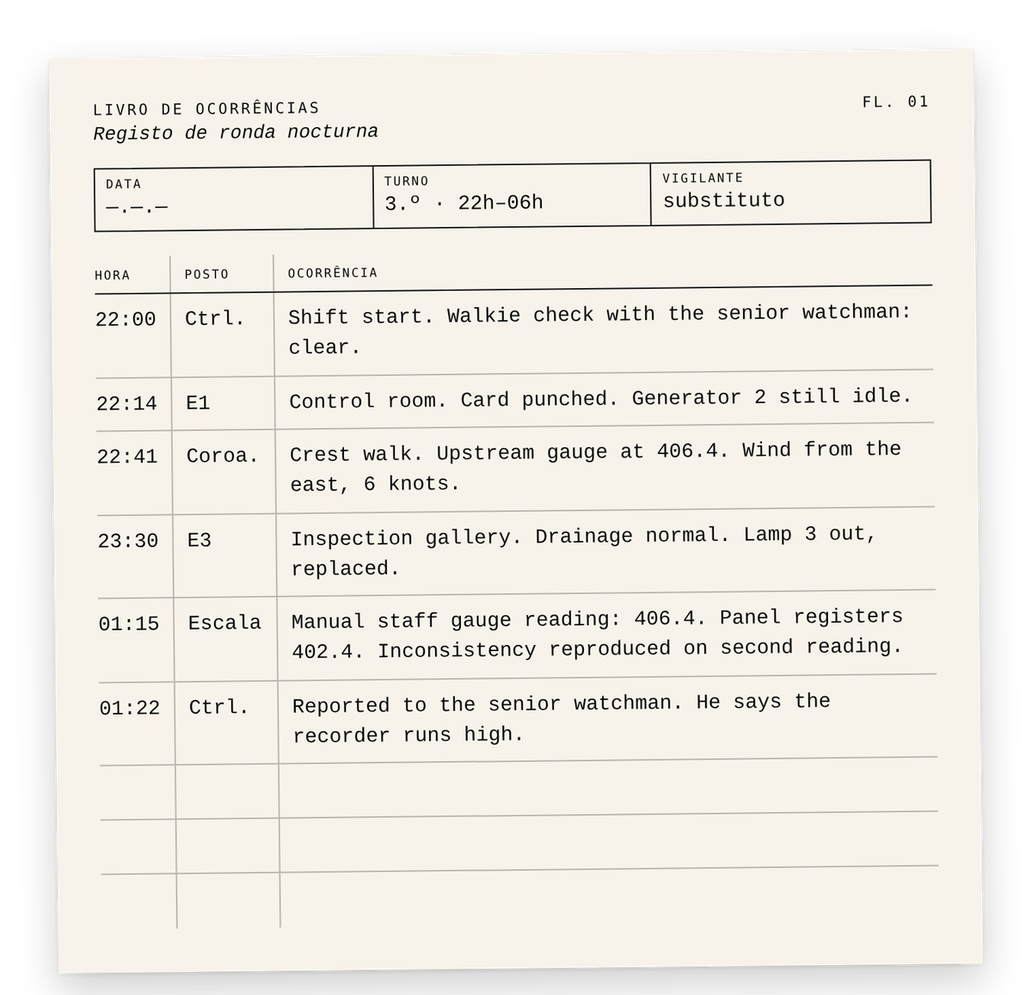
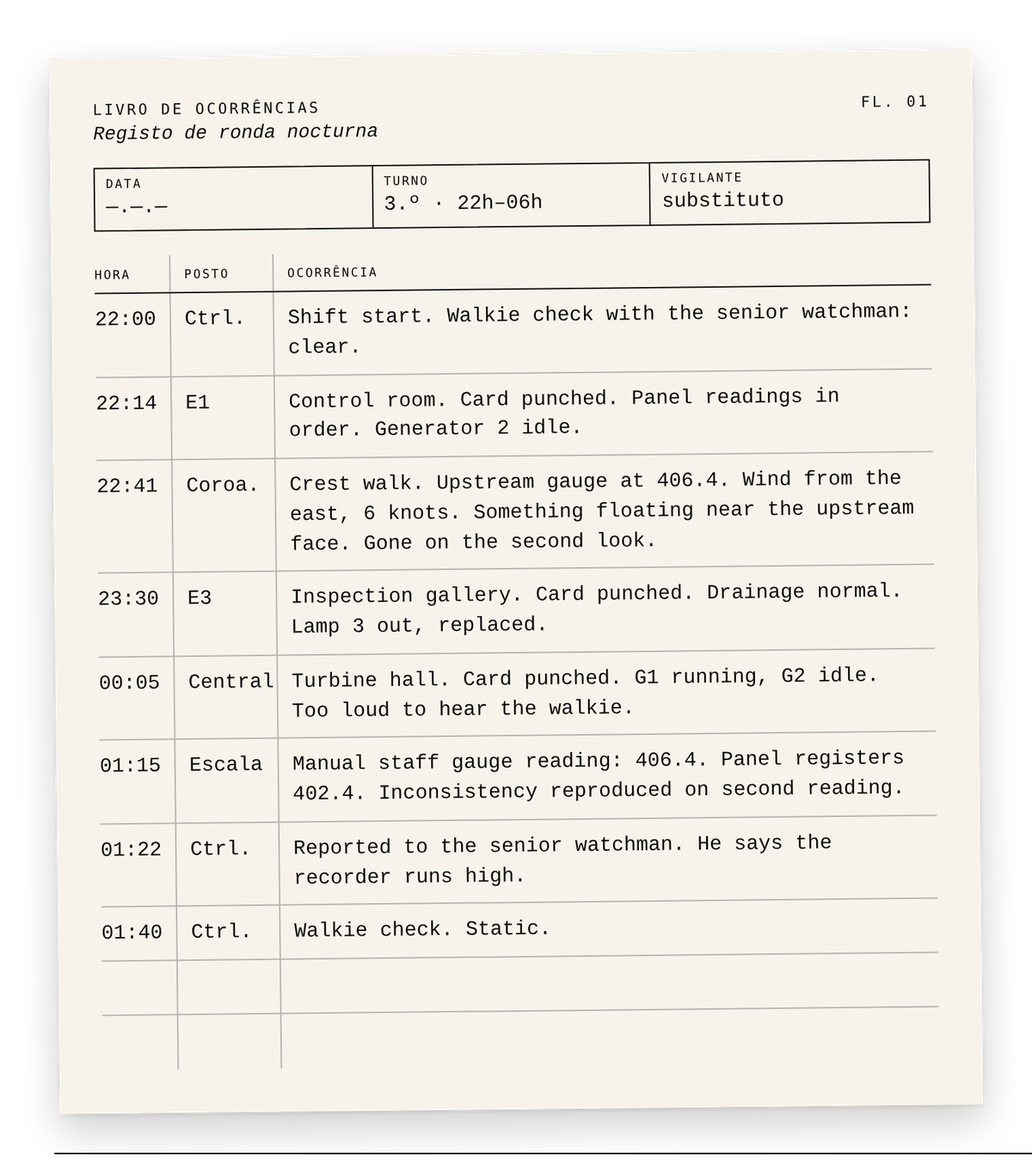
[Feature] Log image updated & log animation improve

diff --git a/index.html b/index.html
@@ -43,8 +43,9 @@ a:focus-visible{outline:2px solid #0A0A0A;outline-offset:3px}
 .lrow{display:grid;grid-template-columns:56px 76px minmax(0,1fr);border-bottom:1px solid rgba(10,10,10,.28)}
 .lrow>span{padding:9px 10px 8px;border-right:1px solid rgba(10,10,10,.28)}
 .lrow>span:last-child{border-right:0}
+.sr{position:absolute;width:1px;height:1px;overflow:hidden;clip:rect(0 0 0 0);white-space:nowrap}
 .lrow>span:first-child{padding-left:0}
-@media (max-width: 560px){.lrow{grid-template-columns:46px 60px minmax(0,1fr)}.lrow>span{padding:8px 6px 7px}.logsheet{font-size:13px!important;padding:16px 14px 18px!important}}
+@media (max-width: 560px){.lrow{grid-template-columns:46px 68px minmax(0,1fr)}.lrow>span{padding:8px 6px 7px}.logsheet{font-size:13px!important;padding:16px 14px 18px!important}}
 .gauge{width:100px;height:400px}
 @media (max-width: 720px){
 .gwrap{padding-right:0!important}
@@ -102,7 +103,10 @@ html{scroll-behavior:smooth}
 
 .fx .log li>span{color:transparent}
 .fx .log.in li>span{color:inherit;animation:ink 1ms linear var(--d) backwards}
-.fx .log.in li>span:last-child{animation:type var(--t,1.1s) steps(var(--n,30),end) calc(var(--d) + 180ms) backwards}
+.fx .log .ch{opacity:0}
+.fx .log.in .ch{opacity:1;animation:appear 1ms linear backwards}
+.fx .draws.in .card{animation:thunk 110ms ease-out 900ms 17 backwards}
+@keyframes thunk{0%{translate:0 0;rotate:0deg}18%{translate:-1px 1.6px;rotate:-.25deg}45%{translate:.6px -.6px;rotate:.12deg}100%{translate:0 0;rotate:0deg}}
 @keyframes ink{from{color:transparent}to{color:#0A0A0A}}
 
 .fx .draws .sheet{opacity:0}
@@ -187,21 +191,22 @@ html{scroll-behavior:smooth}
 </div>
 <div class="lrow" aria-hidden="true" style="margin-top: 18px; border-bottom: 1.5px solid #0A0A0A; font-family: 'IBM Plex Mono', monospace; font-weight: 500; font-size: 9px; letter-spacing: .14em; text-transform: uppercase"><span>Hora</span><span>Posto</span><span>Ocorrência</span></div>
 <ol class="log" data-fx="log" aria-label="Night round log" style="list-style: none; margin: 0; padding: 0; line-height: 1.45">
-<li class="lrow" style="--d: 0ms; --n: 26"><span>22:00</span><span>Ctrl.</span><span>Shift start. Walkie check with the senior watchman: clear.</span></li>
-<li class="lrow" style="--d: 1200ms; --n: 24"><span>22:14</span><span>E1</span><span>Control room. Card punched. Generator 2 still idle.</span></li>
-<li class="lrow" style="--d: 2400ms; --n: 28"><span>22:41</span><span>Coroa.</span><span>Crest walk. Upstream gauge at 406.4. Wind from the east, 6 knots.</span></li>
-<li class="lrow" style="--d: 3600ms; --n: 26"><span>23:30</span><span>E3</span><span>Inspection gallery. Drainage normal. Lamp 3 out, replaced.</span></li>
-<li class="lrow" style="--d: 4800ms; --n: 34; --t: 1.4s"><span>01:15</span><span>Escala</span><span>Manual staff gauge reading: 406.4. Panel registers 402.4. Inconsistency reproduced on second reading.</span></li>
-<li class="lrow" style="--d: 6500ms; --n: 30; --t: 1.3s"><span>01:22</span><span>Ctrl.</span><span>Reported to the senior watchman. He says the recorder runs high.</span></li>
-<li class="lrow" style="--d: 8000ms; --n: 1; --t: 1ms; min-height: 40px"><span>&#8203;</span><span></span><span></span></li>
-<li class="lrow" style="--d: 8000ms; --n: 1; --t: 1ms; min-height: 40px"><span>&#8203;</span><span></span><span></span></li>
-<li class="lrow" style="--d: 8000ms; --n: 1; --t: 1ms; min-height: 40px; border-bottom: 0"><span>&#8203;</span><span></span><span></span></li>
+<li class="lrow" style="--d: 0ms; "><span>22:00</span><span>Ctrl.</span><span><span class="sr">Shift start. Walkie check with the senior watchman: clear.</span><span aria-hidden="true"><span class="ch" style="animation-delay: 150ms">S</span><span class="ch" style="animation-delay: 158ms">h</span><span class="ch" style="animation-delay: 166ms">i</span><span class="ch" style="animation-delay: 174ms">f</span><span class="ch" style="animation-delay: 182ms">t</span><span class="ch" style="animation-delay: 190ms"> </span><span class="ch" style="animation-delay: 198ms">s</span><span class="ch" style="animation-delay: 206ms">t</span><span class="ch" style="animation-delay: 214ms">a</span><span class="ch" style="animation-delay: 222ms">r</span><span class="ch" style="animation-delay: 230ms">t</span><span class="ch" style="animation-delay: 238ms">.</span><span class="ch" style="animation-delay: 246ms"> </span><span class="ch" style="animation-delay: 254ms">W</span><span class="ch" style="animation-delay: 262ms">a</span><span class="ch" style="animation-delay: 270ms">l</span><span class="ch" style="animation-delay: 278ms">k</span><span class="ch" style="animation-delay: 286ms">i</span><span class="ch" style="animation-delay: 294ms">e</span><span class="ch" style="animation-delay: 302ms"> </span><span class="ch" style="animation-delay: 310ms">c</span><span class="ch" style="animation-delay: 318ms">h</span><span class="ch" style="animation-delay: 326ms">e</span><span class="ch" style="animation-delay: 334ms">c</span><span class="ch" style="animation-delay: 342ms">k</span><span class="ch" style="animation-delay: 350ms"> </span><span class="ch" style="animation-delay: 358ms">w</span><span class="ch" style="animation-delay: 366ms">i</span><span class="ch" style="animation-delay: 374ms">t</span><span class="ch" style="animation-delay: 382ms">h</span><span class="ch" style="animation-delay: 390ms"> </span><span class="ch" style="animation-delay: 398ms">t</span><span class="ch" style="animation-delay: 406ms">h</span><span class="ch" style="animation-delay: 414ms">e</span><span class="ch" style="animation-delay: 422ms"> </span><span class="ch" style="animation-delay: 430ms">s</span><span class="ch" style="animation-delay: 438ms">e</span><span class="ch" style="animation-delay: 446ms">n</span><span class="ch" style="animation-delay: 454ms">i</span><span class="ch" style="animation-delay: 462ms">o</span><span class="ch" style="animation-delay: 470ms">r</span><span class="ch" style="animation-delay: 478ms"> </span><span class="ch" style="animation-delay: 486ms">w</span><span class="ch" style="animation-delay: 494ms">a</span><span class="ch" style="animation-delay: 502ms">t</span><span class="ch" style="animation-delay: 510ms">c</span><span class="ch" style="animation-delay: 518ms">h</span><span class="ch" style="animation-delay: 526ms">m</span><span class="ch" style="animation-delay: 534ms">a</span><span class="ch" style="animation-delay: 542ms">n</span><span class="ch" style="animation-delay: 550ms">:</span><span class="ch" style="animation-delay: 558ms"> </span><span class="ch" style="animation-delay: 566ms">c</span><span class="ch" style="animation-delay: 574ms">l</span><span class="ch" style="animation-delay: 582ms">e</span><span class="ch" style="animation-delay: 590ms">a</span><span class="ch" style="animation-delay: 598ms">r</span><span class="ch" style="animation-delay: 606ms">.</span></span></span></li>
+<li class="lrow" style="--d: 794ms; "><span>22:14</span><span>E1</span><span><span class="sr">Control room. Card punched. Panel readings in order. Generator 2 idle.</span><span aria-hidden="true"><span class="ch" style="animation-delay: 944ms">C</span><span class="ch" style="animation-delay: 952ms">o</span><span class="ch" style="animation-delay: 960ms">n</span><span class="ch" style="animation-delay: 968ms">t</span><span class="ch" style="animation-delay: 976ms">r</span><span class="ch" style="animation-delay: 984ms">o</span><span class="ch" style="animation-delay: 992ms">l</span><span class="ch" style="animation-delay: 1000ms"> </span><span class="ch" style="animation-delay: 1008ms">r</span><span class="ch" style="animation-delay: 1016ms">o</span><span class="ch" style="animation-delay: 1024ms">o</span><span class="ch" style="animation-delay: 1032ms">m</span><span class="ch" style="animation-delay: 1040ms">.</span><span class="ch" style="animation-delay: 1048ms"> </span><span class="ch" style="animation-delay: 1056ms">C</span><span class="ch" style="animation-delay: 1064ms">a</span><span class="ch" style="animation-delay: 1072ms">r</span><span class="ch" style="animation-delay: 1080ms">d</span><span class="ch" style="animation-delay: 1088ms"> </span><span class="ch" style="animation-delay: 1096ms">p</span><span class="ch" style="animation-delay: 1104ms">u</span><span class="ch" style="animation-delay: 1112ms">n</span><span class="ch" style="animation-delay: 1120ms">c</span><span class="ch" style="animation-delay: 1128ms">h</span><span class="ch" style="animation-delay: 1136ms">e</span><span class="ch" style="animation-delay: 1144ms">d</span><span class="ch" style="animation-delay: 1152ms">.</span><span class="ch" style="animation-delay: 1160ms"> </span><span class="ch" style="animation-delay: 1168ms">P</span><span class="ch" style="animation-delay: 1176ms">a</span><span class="ch" style="animation-delay: 1184ms">n</span><span class="ch" style="animation-delay: 1192ms">e</span><span class="ch" style="animation-delay: 1200ms">l</span><span class="ch" style="animation-delay: 1208ms"> </span><span class="ch" style="animation-delay: 1216ms">r</span><span class="ch" style="animation-delay: 1224ms">e</span><span class="ch" style="animation-delay: 1232ms">a</span><span class="ch" style="animation-delay: 1240ms">d</span><span class="ch" style="animation-delay: 1248ms">i</span><span class="ch" style="animation-delay: 1256ms">n</span><span class="ch" style="animation-delay: 1264ms">g</span><span class="ch" style="animation-delay: 1272ms">s</span><span class="ch" style="animation-delay: 1280ms"> </span><span class="ch" style="animation-delay: 1288ms">i</span><span class="ch" style="animation-delay: 1296ms">n</span><span class="ch" style="animation-delay: 1304ms"> </span><span class="ch" style="animation-delay: 1312ms">o</span><span class="ch" style="animation-delay: 1320ms">r</span><span class="ch" style="animation-delay: 1328ms">d</span><span class="ch" style="animation-delay: 1336ms">e</span><span class="ch" style="animation-delay: 1344ms">r</span><span class="ch" style="animation-delay: 1352ms">.</span><span class="ch" style="animation-delay: 1360ms"> </span><span class="ch" style="animation-delay: 1368ms">G</span><span class="ch" style="animation-delay: 1376ms">e</span><span class="ch" style="animation-delay: 1384ms">n</span><span class="ch" style="animation-delay: 1392ms">e</span><span class="ch" style="animation-delay: 1400ms">r</span><span class="ch" style="animation-delay: 1408ms">a</span><span class="ch" style="animation-delay: 1416ms">t</span><span class="ch" style="animation-delay: 1424ms">o</span><span class="ch" style="animation-delay: 1432ms">r</span><span class="ch" style="animation-delay: 1440ms"> </span><span class="ch" style="animation-delay: 1448ms">2</span><span class="ch" style="animation-delay: 1456ms"> </span><span class="ch" style="animation-delay: 1464ms">i</span><span class="ch" style="animation-delay: 1472ms">d</span><span class="ch" style="animation-delay: 1480ms">l</span><span class="ch" style="animation-delay: 1488ms">e</span><span class="ch" style="animation-delay: 1496ms">.</span></span></span></li>
+<li class="lrow" style="--d: 1684ms; "><span>22:41</span><span>Coroa.</span><span><span class="sr">Crest walk. Upstream gauge at 406.4. Wind from the east, 6 knots. Something floating near the upstream face. Gone on the second look.</span><span aria-hidden="true"><span class="ch" style="animation-delay: 1834ms">C</span><span class="ch" style="animation-delay: 1842ms">r</span><span class="ch" style="animation-delay: 1850ms">e</span><span class="ch" style="animation-delay: 1858ms">s</span><span class="ch" style="animation-delay: 1866ms">t</span><span class="ch" style="animation-delay: 1874ms"> </span><span class="ch" style="animation-delay: 1882ms">w</span><span class="ch" style="animation-delay: 1890ms">a</span><span class="ch" style="animation-delay: 1898ms">l</span><span class="ch" style="animation-delay: 1906ms">k</span><span class="ch" style="animation-delay: 1914ms">.</span><span class="ch" style="animation-delay: 1922ms"> </span><span class="ch" style="animation-delay: 1930ms">U</span><span class="ch" style="animation-delay: 1938ms">p</span><span class="ch" style="animation-delay: 1946ms">s</span><span class="ch" style="animation-delay: 1954ms">t</span><span class="ch" style="animation-delay: 1962ms">r</span><span class="ch" style="animation-delay: 1970ms">e</span><span class="ch" style="animation-delay: 1978ms">a</span><span class="ch" style="animation-delay: 1986ms">m</span><span class="ch" style="animation-delay: 1994ms"> </span><span class="ch" style="animation-delay: 2002ms">g</span><span class="ch" style="animation-delay: 2010ms">a</span><span class="ch" style="animation-delay: 2018ms">u</span><span class="ch" style="animation-delay: 2026ms">g</span><span class="ch" style="animation-delay: 2034ms">e</span><span class="ch" style="animation-delay: 2042ms"> </span><span class="ch" style="animation-delay: 2050ms">a</span><span class="ch" style="animation-delay: 2058ms">t</span><span class="ch" style="animation-delay: 2066ms"> </span><span class="ch" style="animation-delay: 2074ms">4</span><span class="ch" style="animation-delay: 2082ms">0</span><span class="ch" style="animation-delay: 2090ms">6</span><span class="ch" style="animation-delay: 2098ms">.</span><span class="ch" style="animation-delay: 2106ms">4</span><span class="ch" style="animation-delay: 2114ms">.</span><span class="ch" style="animation-delay: 2122ms"> </span><span class="ch" style="animation-delay: 2130ms">W</span><span class="ch" style="animation-delay: 2138ms">i</span><span class="ch" style="animation-delay: 2146ms">n</span><span class="ch" style="animation-delay: 2154ms">d</span><span class="ch" style="animation-delay: 2162ms"> </span><span class="ch" style="animation-delay: 2170ms">f</span><span class="ch" style="animation-delay: 2178ms">r</span><span class="ch" style="animation-delay: 2186ms">o</span><span class="ch" style="animation-delay: 2194ms">m</span><span class="ch" style="animation-delay: 2202ms"> </span><span class="ch" style="animation-delay: 2210ms">t</span><span class="ch" style="animation-delay: 2218ms">h</span><span class="ch" style="animation-delay: 2226ms">e</span><span class="ch" style="animation-delay: 2234ms"> </span><span class="ch" style="animation-delay: 2242ms">e</span><span class="ch" style="animation-delay: 2250ms">a</span><span class="ch" style="animation-delay: 2258ms">s</span><span class="ch" style="animation-delay: 2266ms">t</span><span class="ch" style="animation-delay: 2274ms">,</span><span class="ch" style="animation-delay: 2282ms"> </span><span class="ch" style="animation-delay: 2290ms">6</span><span class="ch" style="animation-delay: 2298ms"> </span><span class="ch" style="animation-delay: 2306ms">k</span><span class="ch" style="animation-delay: 2314ms">n</span><span class="ch" style="animation-delay: 2322ms">o</span><span class="ch" style="animation-delay: 2330ms">t</span><span class="ch" style="animation-delay: 2338ms">s</span><span class="ch" style="animation-delay: 2346ms">.</span><span class="ch" style="animation-delay: 2354ms"> </span><span class="ch" style="animation-delay: 2362ms">S</span><span class="ch" style="animation-delay: 2370ms">o</span><span class="ch" style="animation-delay: 2378ms">m</span><span class="ch" style="animation-delay: 2386ms">e</span><span class="ch" style="animation-delay: 2394ms">t</span><span class="ch" style="animation-delay: 2402ms">h</span><span class="ch" style="animation-delay: 2410ms">i</span><span class="ch" style="animation-delay: 2418ms">n</span><span class="ch" style="animation-delay: 2426ms">g</span><span class="ch" style="animation-delay: 2434ms"> </span><span class="ch" style="animation-delay: 2442ms">f</span><span class="ch" style="animation-delay: 2450ms">l</span><span class="ch" style="animation-delay: 2458ms">o</span><span class="ch" style="animation-delay: 2466ms">a</span><span class="ch" style="animation-delay: 2474ms">t</span><span class="ch" style="animation-delay: 2482ms">i</span><span class="ch" style="animation-delay: 2490ms">n</span><span class="ch" style="animation-delay: 2498ms">g</span><span class="ch" style="animation-delay: 2506ms"> </span><span class="ch" style="animation-delay: 2514ms">n</span><span class="ch" style="animation-delay: 2522ms">e</span><span class="ch" style="animation-delay: 2530ms">a</span><span class="ch" style="animation-delay: 2538ms">r</span><span class="ch" style="animation-delay: 2546ms"> </span><span class="ch" style="animation-delay: 2554ms">t</span><span class="ch" style="animation-delay: 2562ms">h</span><span class="ch" style="animation-delay: 2570ms">e</span><span class="ch" style="animation-delay: 2578ms"> </span><span class="ch" style="animation-delay: 2586ms">u</span><span class="ch" style="animation-delay: 2594ms">p</span><span class="ch" style="animation-delay: 2602ms">s</span><span class="ch" style="animation-delay: 2610ms">t</span><span class="ch" style="animation-delay: 2618ms">r</span><span class="ch" style="animation-delay: 2626ms">e</span><span class="ch" style="animation-delay: 2634ms">a</span><span class="ch" style="animation-delay: 2642ms">m</span><span class="ch" style="animation-delay: 2650ms"> </span><span class="ch" style="animation-delay: 2658ms">f</span><span class="ch" style="animation-delay: 2666ms">a</span><span class="ch" style="animation-delay: 2674ms">c</span><span class="ch" style="animation-delay: 2682ms">e</span><span class="ch" style="animation-delay: 2690ms">.</span><span class="ch" style="animation-delay: 2698ms"> </span><span class="ch" style="animation-delay: 2706ms">G</span><span class="ch" style="animation-delay: 2714ms">o</span><span class="ch" style="animation-delay: 2722ms">n</span><span class="ch" style="animation-delay: 2730ms">e</span><span class="ch" style="animation-delay: 2738ms"> </span><span class="ch" style="animation-delay: 2746ms">o</span><span class="ch" style="animation-delay: 2754ms">n</span><span class="ch" style="animation-delay: 2762ms"> </span><span class="ch" style="animation-delay: 2770ms">t</span><span class="ch" style="animation-delay: 2778ms">h</span><span class="ch" style="animation-delay: 2786ms">e</span><span class="ch" style="animation-delay: 2794ms"> </span><span class="ch" style="animation-delay: 2802ms">s</span><span class="ch" style="animation-delay: 2810ms">e</span><span class="ch" style="animation-delay: 2818ms">c</span><span class="ch" style="animation-delay: 2826ms">o</span><span class="ch" style="animation-delay: 2834ms">n</span><span class="ch" style="animation-delay: 2842ms">d</span><span class="ch" style="animation-delay: 2850ms"> </span><span class="ch" style="animation-delay: 2858ms">l</span><span class="ch" style="animation-delay: 2866ms">o</span><span class="ch" style="animation-delay: 2874ms">o</span><span class="ch" style="animation-delay: 2882ms">k</span><span class="ch" style="animation-delay: 2890ms">.</span></span></span></li>
+<li class="lrow" style="--d: 3078ms; "><span>23:30</span><span>E3</span><span><span class="sr">Inspection gallery. Card punched. Drainage normal. Lamp 3 out, replaced.</span><span aria-hidden="true"><span class="ch" style="animation-delay: 3228ms">I</span><span class="ch" style="animation-delay: 3236ms">n</span><span class="ch" style="animation-delay: 3244ms">s</span><span class="ch" style="animation-delay: 3252ms">p</span><span class="ch" style="animation-delay: 3260ms">e</span><span class="ch" style="animation-delay: 3268ms">c</span><span class="ch" style="animation-delay: 3276ms">t</span><span class="ch" style="animation-delay: 3284ms">i</span><span class="ch" style="animation-delay: 3292ms">o</span><span class="ch" style="animation-delay: 3300ms">n</span><span class="ch" style="animation-delay: 3308ms"> </span><span class="ch" style="animation-delay: 3316ms">g</span><span class="ch" style="animation-delay: 3324ms">a</span><span class="ch" style="animation-delay: 3332ms">l</span><span class="ch" style="animation-delay: 3340ms">l</span><span class="ch" style="animation-delay: 3348ms">e</span><span class="ch" style="animation-delay: 3356ms">r</span><span class="ch" style="animation-delay: 3364ms">y</span><span class="ch" style="animation-delay: 3372ms">.</span><span class="ch" style="animation-delay: 3380ms"> </span><span class="ch" style="animation-delay: 3388ms">C</span><span class="ch" style="animation-delay: 3396ms">a</span><span class="ch" style="animation-delay: 3404ms">r</span><span class="ch" style="animation-delay: 3412ms">d</span><span class="ch" style="animation-delay: 3420ms"> </span><span class="ch" style="animation-delay: 3428ms">p</span><span class="ch" style="animation-delay: 3436ms">u</span><span class="ch" style="animation-delay: 3444ms">n</span><span class="ch" style="animation-delay: 3452ms">c</span><span class="ch" style="animation-delay: 3460ms">h</span><span class="ch" style="animation-delay: 3468ms">e</span><span class="ch" style="animation-delay: 3476ms">d</span><span class="ch" style="animation-delay: 3484ms">.</span><span class="ch" style="animation-delay: 3492ms"> </span><span class="ch" style="animation-delay: 3500ms">D</span><span class="ch" style="animation-delay: 3508ms">r</span><span class="ch" style="animation-delay: 3516ms">a</span><span class="ch" style="animation-delay: 3524ms">i</span><span class="ch" style="animation-delay: 3532ms">n</span><span class="ch" style="animation-delay: 3540ms">a</span><span class="ch" style="animation-delay: 3548ms">g</span><span class="ch" style="animation-delay: 3556ms">e</span><span class="ch" style="animation-delay: 3564ms"> </span><span class="ch" style="animation-delay: 3572ms">n</span><span class="ch" style="animation-delay: 3580ms">o</span><span class="ch" style="animation-delay: 3588ms">r</span><span class="ch" style="animation-delay: 3596ms">m</span><span class="ch" style="animation-delay: 3604ms">a</span><span class="ch" style="animation-delay: 3612ms">l</span><span class="ch" style="animation-delay: 3620ms">.</span><span class="ch" style="animation-delay: 3628ms"> </span><span class="ch" style="animation-delay: 3636ms">L</span><span class="ch" style="animation-delay: 3644ms">a</span><span class="ch" style="animation-delay: 3652ms">m</span><span class="ch" style="animation-delay: 3660ms">p</span><span class="ch" style="animation-delay: 3668ms"> </span><span class="ch" style="animation-delay: 3676ms">3</span><span class="ch" style="animation-delay: 3684ms"> </span><span class="ch" style="animation-delay: 3692ms">o</span><span class="ch" style="animation-delay: 3700ms">u</span><span class="ch" style="animation-delay: 3708ms">t</span><span class="ch" style="animation-delay: 3716ms">,</span><span class="ch" style="animation-delay: 3724ms"> </span><span class="ch" style="animation-delay: 3732ms">r</span><span class="ch" style="animation-delay: 3740ms">e</span><span class="ch" style="animation-delay: 3748ms">p</span><span class="ch" style="animation-delay: 3756ms">l</span><span class="ch" style="animation-delay: 3764ms">a</span><span class="ch" style="animation-delay: 3772ms">c</span><span class="ch" style="animation-delay: 3780ms">e</span><span class="ch" style="animation-delay: 3788ms">d</span><span class="ch" style="animation-delay: 3796ms">.</span></span></span></li>
+<li class="lrow" style="--d: 3984ms; "><span>00:05</span><span>Central</span><span><span class="sr">Turbine hall. Card punched. G1 running, G2 idle. Too loud to hear the walkie.</span><span aria-hidden="true"><span class="ch" style="animation-delay: 4134ms">T</span><span class="ch" style="animation-delay: 4142ms">u</span><span class="ch" style="animation-delay: 4150ms">r</span><span class="ch" style="animation-delay: 4158ms">b</span><span class="ch" style="animation-delay: 4166ms">i</span><span class="ch" style="animation-delay: 4174ms">n</span><span class="ch" style="animation-delay: 4182ms">e</span><span class="ch" style="animation-delay: 4190ms"> </span><span class="ch" style="animation-delay: 4198ms">h</span><span class="ch" style="animation-delay: 4206ms">a</span><span class="ch" style="animation-delay: 4214ms">l</span><span class="ch" style="animation-delay: 4222ms">l</span><span class="ch" style="animation-delay: 4230ms">.</span><span class="ch" style="animation-delay: 4238ms"> </span><span class="ch" style="animation-delay: 4246ms">C</span><span class="ch" style="animation-delay: 4254ms">a</span><span class="ch" style="animation-delay: 4262ms">r</span><span class="ch" style="animation-delay: 4270ms">d</span><span class="ch" style="animation-delay: 4278ms"> </span><span class="ch" style="animation-delay: 4286ms">p</span><span class="ch" style="animation-delay: 4294ms">u</span><span class="ch" style="animation-delay: 4302ms">n</span><span class="ch" style="animation-delay: 4310ms">c</span><span class="ch" style="animation-delay: 4318ms">h</span><span class="ch" style="animation-delay: 4326ms">e</span><span class="ch" style="animation-delay: 4334ms">d</span><span class="ch" style="animation-delay: 4342ms">.</span><span class="ch" style="animation-delay: 4350ms"> </span><span class="ch" style="animation-delay: 4358ms">G</span><span class="ch" style="animation-delay: 4366ms">1</span><span class="ch" style="animation-delay: 4374ms"> </span><span class="ch" style="animation-delay: 4382ms">r</span><span class="ch" style="animation-delay: 4390ms">u</span><span class="ch" style="animation-delay: 4398ms">n</span><span class="ch" style="animation-delay: 4406ms">n</span><span class="ch" style="animation-delay: 4414ms">i</span><span class="ch" style="animation-delay: 4422ms">n</span><span class="ch" style="animation-delay: 4430ms">g</span><span class="ch" style="animation-delay: 4438ms">,</span><span class="ch" style="animation-delay: 4446ms"> </span><span class="ch" style="animation-delay: 4454ms">G</span><span class="ch" style="animation-delay: 4462ms">2</span><span class="ch" style="animation-delay: 4470ms"> </span><span class="ch" style="animation-delay: 4478ms">i</span><span class="ch" style="animation-delay: 4486ms">d</span><span class="ch" style="animation-delay: 4494ms">l</span><span class="ch" style="animation-delay: 4502ms">e</span><span class="ch" style="animation-delay: 4510ms">.</span><span class="ch" style="animation-delay: 4518ms"> </span><span class="ch" style="animation-delay: 4526ms">T</span><span class="ch" style="animation-delay: 4534ms">o</span><span class="ch" style="animation-delay: 4542ms">o</span><span class="ch" style="animation-delay: 4550ms"> </span><span class="ch" style="animation-delay: 4558ms">l</span><span class="ch" style="animation-delay: 4566ms">o</span><span class="ch" style="animation-delay: 4574ms">u</span><span class="ch" style="animation-delay: 4582ms">d</span><span class="ch" style="animation-delay: 4590ms"> </span><span class="ch" style="animation-delay: 4598ms">t</span><span class="ch" style="animation-delay: 4606ms">o</span><span class="ch" style="animation-delay: 4614ms"> </span><span class="ch" style="animation-delay: 4622ms">h</span><span class="ch" style="animation-delay: 4630ms">e</span><span class="ch" style="animation-delay: 4638ms">a</span><span class="ch" style="animation-delay: 4646ms">r</span><span class="ch" style="animation-delay: 4654ms"> </span><span class="ch" style="animation-delay: 4662ms">t</span><span class="ch" style="animation-delay: 4670ms">h</span><span class="ch" style="animation-delay: 4678ms">e</span><span class="ch" style="animation-delay: 4686ms"> </span><span class="ch" style="animation-delay: 4694ms">w</span><span class="ch" style="animation-delay: 4702ms">a</span><span class="ch" style="animation-delay: 4710ms">l</span><span class="ch" style="animation-delay: 4718ms">k</span><span class="ch" style="animation-delay: 4726ms">i</span><span class="ch" style="animation-delay: 4734ms">e</span><span class="ch" style="animation-delay: 4742ms">.</span></span></span></li>
+<li class="lrow" style="--d: 4930ms; "><span>01:15</span><span>Escala</span><span><span class="sr">Manual staff gauge reading: 406.4. Panel registers 402.4. Inconsistency reproduced on second reading.</span><span aria-hidden="true"><span class="ch" style="animation-delay: 5080ms">M</span><span class="ch" style="animation-delay: 5088ms">a</span><span class="ch" style="animation-delay: 5096ms">n</span><span class="ch" style="animation-delay: 5104ms">u</span><span class="ch" style="animation-delay: 5112ms">a</span><span class="ch" style="animation-delay: 5120ms">l</span><span class="ch" style="animation-delay: 5128ms"> </span><span class="ch" style="animation-delay: 5136ms">s</span><span class="ch" style="animation-delay: 5144ms">t</span><span class="ch" style="animation-delay: 5152ms">a</span><span class="ch" style="animation-delay: 5160ms">f</span><span class="ch" style="animation-delay: 5168ms">f</span><span class="ch" style="animation-delay: 5176ms"> </span><span class="ch" style="animation-delay: 5184ms">g</span><span class="ch" style="animation-delay: 5192ms">a</span><span class="ch" style="animation-delay: 5200ms">u</span><span class="ch" style="animation-delay: 5208ms">g</span><span class="ch" style="animation-delay: 5216ms">e</span><span class="ch" style="animation-delay: 5224ms"> </span><span class="ch" style="animation-delay: 5232ms">r</span><span class="ch" style="animation-delay: 5240ms">e</span><span class="ch" style="animation-delay: 5248ms">a</span><span class="ch" style="animation-delay: 5256ms">d</span><span class="ch" style="animation-delay: 5264ms">i</span><span class="ch" style="animation-delay: 5272ms">n</span><span class="ch" style="animation-delay: 5280ms">g</span><span class="ch" style="animation-delay: 5288ms">:</span><span class="ch" style="animation-delay: 5296ms"> </span><span class="ch" style="animation-delay: 5304ms">4</span><span class="ch" style="animation-delay: 5312ms">0</span><span class="ch" style="animation-delay: 5320ms">6</span><span class="ch" style="animation-delay: 5328ms">.</span><span class="ch" style="animation-delay: 5336ms">4</span><span class="ch" style="animation-delay: 5344ms">.</span><span class="ch" style="animation-delay: 5352ms"> </span><span class="ch" style="animation-delay: 5360ms">P</span><span class="ch" style="animation-delay: 5368ms">a</span><span class="ch" style="animation-delay: 5376ms">n</span><span class="ch" style="animation-delay: 5384ms">e</span><span class="ch" style="animation-delay: 5392ms">l</span><span class="ch" style="animation-delay: 5400ms"> </span><span class="ch" style="animation-delay: 5408ms">r</span><span class="ch" style="animation-delay: 5416ms">e</span><span class="ch" style="animation-delay: 5424ms">g</span><span class="ch" style="animation-delay: 5432ms">i</span><span class="ch" style="animation-delay: 5440ms">s</span><span class="ch" style="animation-delay: 5448ms">t</span><span class="ch" style="animation-delay: 5456ms">e</span><span class="ch" style="animation-delay: 5464ms">r</span><span class="ch" style="animation-delay: 5472ms">s</span><span class="ch" style="animation-delay: 5480ms"> </span><span class="ch" style="animation-delay: 5488ms">4</span><span class="ch" style="animation-delay: 5496ms">0</span><span class="ch" style="animation-delay: 5504ms">2</span><span class="ch" style="animation-delay: 5512ms">.</span><span class="ch" style="animation-delay: 5520ms">4</span><span class="ch" style="animation-delay: 5528ms">.</span><span class="ch" style="animation-delay: 5536ms"> </span><span class="ch" style="animation-delay: 5544ms">I</span><span class="ch" style="animation-delay: 5552ms">n</span><span class="ch" style="animation-delay: 5560ms">c</span><span class="ch" style="animation-delay: 5568ms">o</span><span class="ch" style="animation-delay: 5576ms">n</span><span class="ch" style="animation-delay: 5584ms">s</span><span class="ch" style="animation-delay: 5592ms">i</span><span class="ch" style="animation-delay: 5600ms">s</span><span class="ch" style="animation-delay: 5608ms">t</span><span class="ch" style="animation-delay: 5616ms">e</span><span class="ch" style="animation-delay: 5624ms">n</span><span class="ch" style="animation-delay: 5632ms">c</span><span class="ch" style="animation-delay: 5640ms">y</span><span class="ch" style="animation-delay: 5648ms"> </span><span class="ch" style="animation-delay: 5656ms">r</span><span class="ch" style="animation-delay: 5664ms">e</span><span class="ch" style="animation-delay: 5672ms">p</span><span class="ch" style="animation-delay: 5680ms">r</span><span class="ch" style="animation-delay: 5688ms">o</span><span class="ch" style="animation-delay: 5696ms">d</span><span class="ch" style="animation-delay: 5704ms">u</span><span class="ch" style="animation-delay: 5712ms">c</span><span class="ch" style="animation-delay: 5720ms">e</span><span class="ch" style="animation-delay: 5728ms">d</span><span class="ch" style="animation-delay: 5736ms"> </span><span class="ch" style="animation-delay: 5744ms">o</span><span class="ch" style="animation-delay: 5752ms">n</span><span class="ch" style="animation-delay: 5760ms"> </span><span class="ch" style="animation-delay: 5768ms">s</span><span class="ch" style="animation-delay: 5776ms">e</span><span class="ch" style="animation-delay: 5784ms">c</span><span class="ch" style="animation-delay: 5792ms">o</span><span class="ch" style="animation-delay: 5800ms">n</span><span class="ch" style="animation-delay: 5808ms">d</span><span class="ch" style="animation-delay: 5816ms"> </span><span class="ch" style="animation-delay: 5824ms">r</span><span class="ch" style="animation-delay: 5832ms">e</span><span class="ch" style="animation-delay: 5840ms">a</span><span class="ch" style="animation-delay: 5848ms">d</span><span class="ch" style="animation-delay: 5856ms">i</span><span class="ch" style="animation-delay: 5864ms">n</span><span class="ch" style="animation-delay: 5872ms">g</span><span class="ch" style="animation-delay: 5880ms">.</span></span></span></li>
+<li class="lrow" style="--d: 6068ms; "><span>01:22</span><span>Ctrl.</span><span><span class="sr">Reported to the senior watchman. He says the recorder runs high.</span><span aria-hidden="true"><span class="ch" style="animation-delay: 6218ms">R</span><span class="ch" style="animation-delay: 6226ms">e</span><span class="ch" style="animation-delay: 6234ms">p</span><span class="ch" style="animation-delay: 6242ms">o</span><span class="ch" style="animation-delay: 6250ms">r</span><span class="ch" style="animation-delay: 6258ms">t</span><span class="ch" style="animation-delay: 6266ms">e</span><span class="ch" style="animation-delay: 6274ms">d</span><span class="ch" style="animation-delay: 6282ms"> </span><span class="ch" style="animation-delay: 6290ms">t</span><span class="ch" style="animation-delay: 6298ms">o</span><span class="ch" style="animation-delay: 6306ms"> </span><span class="ch" style="animation-delay: 6314ms">t</span><span class="ch" style="animation-delay: 6322ms">h</span><span class="ch" style="animation-delay: 6330ms">e</span><span class="ch" style="animation-delay: 6338ms"> </span><span class="ch" style="animation-delay: 6346ms">s</span><span class="ch" style="animation-delay: 6354ms">e</span><span class="ch" style="animation-delay: 6362ms">n</span><span class="ch" style="animation-delay: 6370ms">i</span><span class="ch" style="animation-delay: 6378ms">o</span><span class="ch" style="animation-delay: 6386ms">r</span><span class="ch" style="animation-delay: 6394ms"> </span><span class="ch" style="animation-delay: 6402ms">w</span><span class="ch" style="animation-delay: 6410ms">a</span><span class="ch" style="animation-delay: 6418ms">t</span><span class="ch" style="animation-delay: 6426ms">c</span><span class="ch" style="animation-delay: 6434ms">h</span><span class="ch" style="animation-delay: 6442ms">m</span><span class="ch" style="animation-delay: 6450ms">a</span><span class="ch" style="animation-delay: 6458ms">n</span><span class="ch" style="animation-delay: 6466ms">.</span><span class="ch" style="animation-delay: 6474ms"> </span><span class="ch" style="animation-delay: 6482ms">H</span><span class="ch" style="animation-delay: 6490ms">e</span><span class="ch" style="animation-delay: 6498ms"> </span><span class="ch" style="animation-delay: 6506ms">s</span><span class="ch" style="animation-delay: 6514ms">a</span><span class="ch" style="animation-delay: 6522ms">y</span><span class="ch" style="animation-delay: 6530ms">s</span><span class="ch" style="animation-delay: 6538ms"> </span><span class="ch" style="animation-delay: 6546ms">t</span><span class="ch" style="animation-delay: 6554ms">h</span><span class="ch" style="animation-delay: 6562ms">e</span><span class="ch" style="animation-delay: 6570ms"> </span><span class="ch" style="animation-delay: 6578ms">r</span><span class="ch" style="animation-delay: 6586ms">e</span><span class="ch" style="animation-delay: 6594ms">c</span><span class="ch" style="animation-delay: 6602ms">o</span><span class="ch" style="animation-delay: 6610ms">r</span><span class="ch" style="animation-delay: 6618ms">d</span><span class="ch" style="animation-delay: 6626ms">e</span><span class="ch" style="animation-delay: 6634ms">r</span><span class="ch" style="animation-delay: 6642ms"> </span><span class="ch" style="animation-delay: 6650ms">r</span><span class="ch" style="animation-delay: 6658ms">u</span><span class="ch" style="animation-delay: 6666ms">n</span><span class="ch" style="animation-delay: 6674ms">s</span><span class="ch" style="animation-delay: 6682ms"> </span><span class="ch" style="animation-delay: 6690ms">h</span><span class="ch" style="animation-delay: 6698ms">i</span><span class="ch" style="animation-delay: 6706ms">g</span><span class="ch" style="animation-delay: 6714ms">h</span><span class="ch" style="animation-delay: 6722ms">.</span></span></span></li>
+<li class="lrow" style="--d: 6910ms; "><span>01:40</span><span>Ctrl.</span><span><span class="sr">Walkie check. Static.</span><span aria-hidden="true"><span class="ch" style="animation-delay: 7060ms">W</span><span class="ch" style="animation-delay: 7068ms">a</span><span class="ch" style="animation-delay: 7076ms">l</span><span class="ch" style="animation-delay: 7084ms">k</span><span class="ch" style="animation-delay: 7092ms">i</span><span class="ch" style="animation-delay: 7100ms">e</span><span class="ch" style="animation-delay: 7108ms"> </span><span class="ch" style="animation-delay: 7116ms">c</span><span class="ch" style="animation-delay: 7124ms">h</span><span class="ch" style="animation-delay: 7132ms">e</span><span class="ch" style="animation-delay: 7140ms">c</span><span class="ch" style="animation-delay: 7148ms">k</span><span class="ch" style="animation-delay: 7156ms">.</span><span class="ch" style="animation-delay: 7164ms"> </span><span class="ch" style="animation-delay: 7172ms">S</span><span class="ch" style="animation-delay: 7180ms">t</span><span class="ch" style="animation-delay: 7188ms">a</span><span class="ch" style="animation-delay: 7196ms">t</span><span class="ch" style="animation-delay: 7204ms">i</span><span class="ch" style="animation-delay: 7212ms">c</span><span class="ch" style="animation-delay: 7220ms">.</span></span></span></li>
+<li class="lrow" style="--d: 7408ms; min-height: 40px"><span>&#8203;</span><span></span><span><span class="sr"></span><span aria-hidden="true"></span></span></li>
+<li class="lrow" style="--d: 7408ms; min-height: 40px; border-bottom: 0"><span>&#8203;</span><span></span><span><span class="sr"></span><span aria-hidden="true"></span></span></li>
 </ol>
 </div>
 </div>
 </div>
 
-<p style="margin: 32px 0 0; padding: 10px 0; border-top: 1px solid #0A0A0A; border-bottom: 1px solid #0A0A0A; font-family: 'IBM Plex Mono', monospace; font-weight: 500; font-size: 12px; line-height: 1.8; letter-spacing: .14em; text-transform: uppercase">FIRST PERSON · ONE PLACE · NO WEAPONS · A VOICE ON THE WALKIE · LOW-POLY</p>
+<p style="margin: 32px 0 0; padding: 10px 0; border-top: 1px solid #0A0A0A; border-bottom: 1px solid #0A0A0A; font-family: 'IBM Plex Mono', monospace; font-weight: 500; font-size: 12px; line-height: 1.8; letter-spacing: .14em; text-transform: uppercase">FIRST PERSON · ONE PLACE · NO WEAPONS · A VOICE ON THE WALKIE · RETRO STYLE</p>
 
 <div class="draws" data-fx="draw" style="display: flex; flex-wrap: wrap; align-items: center; justify-content: space-between; gap: 40px 32px; margin-top: 48px">
 <svg class="card" viewBox="0 0 480 212" role="img" aria-label="Punch card from the night round log, with a level reading punched in" style="flex: 1 1 400px; min-width: 0; max-width: 480px; width: 100%; height: auto; display: block">
@@ -224,23 +229,23 @@ html{scroll-behavior:smooth}
 <g font-size="4.5"><text x="17" y="200">1</text><text x="57" y="200">5</text><text x="107" y="200">10</text><text x="157" y="200">15</text><text x="207" y="200">20</text><text x="257" y="200">25</text><text x="307" y="200">30</text><text x="357" y="200">35</text><text x="407" y="200">40</text><text x="457" y="200">45</text></g>
 </g>
 <g fill="#0A0A0A">
-<rect class="h" x="15" y="80" width="4" height="9" style="animation-delay: .80s"></rect>
-<rect class="h" x="25" y="116" width="4" height="9" style="animation-delay: .84s"></rect>
-<rect class="h" x="35" y="68" width="4" height="9" style="animation-delay: .88s"></rect>
-<rect class="h" x="45" y="164" width="4" height="9" style="animation-delay: .92s"></rect>
-<rect class="h" x="55" y="128" width="4" height="9" style="animation-delay: .96s"></rect>
-<rect class="h" x="65" y="164" width="4" height="9" style="animation-delay: 1.00s"></rect>
-<rect class="h" x="75" y="104" width="4" height="9" style="animation-delay: 1.04s"></rect>
-<rect class="h" x="85" y="68" width="4" height="9" style="animation-delay: 1.08s"></rect>
-<rect class="h" x="95" y="116" width="4" height="9" style="animation-delay: 1.12s"></rect>
-<rect class="h" x="105" y="116" width="4" height="9" style="animation-delay: 1.16s"></rect>
-<rect class="h" x="115" y="68" width="4" height="9" style="animation-delay: 1.20s"></rect>
-<rect class="h" x="125" y="140" width="4" height="9" style="animation-delay: 1.24s"></rect>
-<rect class="h" x="135" y="116" width="4" height="9" style="animation-delay: 1.28s"></rect>
-<rect class="h" x="145" y="68" width="4" height="9" style="animation-delay: 1.32s"></rect>
-<rect class="h" x="155" y="68" width="4" height="9" style="animation-delay: 1.36s"></rect>
-<rect class="h" x="165" y="80" width="4" height="9" style="animation-delay: 1.40s"></rect>
-<rect class="h" x="175" y="92" width="4" height="9" style="animation-delay: 1.44s"></rect>
+<rect class="h" x="15" y="80" width="4" height="9" style="animation-delay: 900ms"></rect>
+<rect class="h" x="25" y="116" width="4" height="9" style="animation-delay: 1010ms"></rect>
+<rect class="h" x="35" y="68" width="4" height="9" style="animation-delay: 1120ms"></rect>
+<rect class="h" x="45" y="164" width="4" height="9" style="animation-delay: 1230ms"></rect>
+<rect class="h" x="55" y="128" width="4" height="9" style="animation-delay: 1340ms"></rect>
+<rect class="h" x="65" y="164" width="4" height="9" style="animation-delay: 1450ms"></rect>
+<rect class="h" x="75" y="104" width="4" height="9" style="animation-delay: 1560ms"></rect>
+<rect class="h" x="85" y="68" width="4" height="9" style="animation-delay: 1670ms"></rect>
+<rect class="h" x="95" y="116" width="4" height="9" style="animation-delay: 1780ms"></rect>
+<rect class="h" x="105" y="116" width="4" height="9" style="animation-delay: 1890ms"></rect>
+<rect class="h" x="115" y="68" width="4" height="9" style="animation-delay: 2000ms"></rect>
+<rect class="h" x="125" y="140" width="4" height="9" style="animation-delay: 2110ms"></rect>
+<rect class="h" x="135" y="116" width="4" height="9" style="animation-delay: 2220ms"></rect>
+<rect class="h" x="145" y="68" width="4" height="9" style="animation-delay: 2330ms"></rect>
+<rect class="h" x="155" y="68" width="4" height="9" style="animation-delay: 2440ms"></rect>
+<rect class="h" x="165" y="80" width="4" height="9" style="animation-delay: 2550ms"></rect>
+<rect class="h" x="175" y="92" width="4" height="9" style="animation-delay: 2660ms"></rect>
 </g>
 </svg>
 
@@ -347,6 +352,17 @@ html{scroll-behavior:smooth}
 </footer>
 
 </main>
-<script>(function(){var r=document.documentElement,w=0;function l(){var n=window.innerWidth;if(n===w)return;w=n;r.style.setProperty('--hero-h',window.innerHeight+'px')}l();addEventListener('resize',l);addEventListener('orientationchange',function(){w=0;setTimeout(l,250)})})();</script>
+<script>
+(function(){
+  var reduce=false;
+  try{reduce=window.matchMedia('(prefers-reduced-motion: reduce)').matches}catch(e){}
+  if(reduce||!('IntersectionObserver' in window))return;
+  var io=new IntersectionObserver(function(es){es.forEach(function(e){
+    if(!e.isIntersecting)return;e.target.classList.add('in');io.unobserve(e.target);
+  })},{threshold:0.3});
+  document.querySelectorAll('[data-fx]').forEach(function(el){io.observe(el)});
+  document.querySelector('main').classList.add('fx');
+})();
+</script>
 </body>
 </html>
